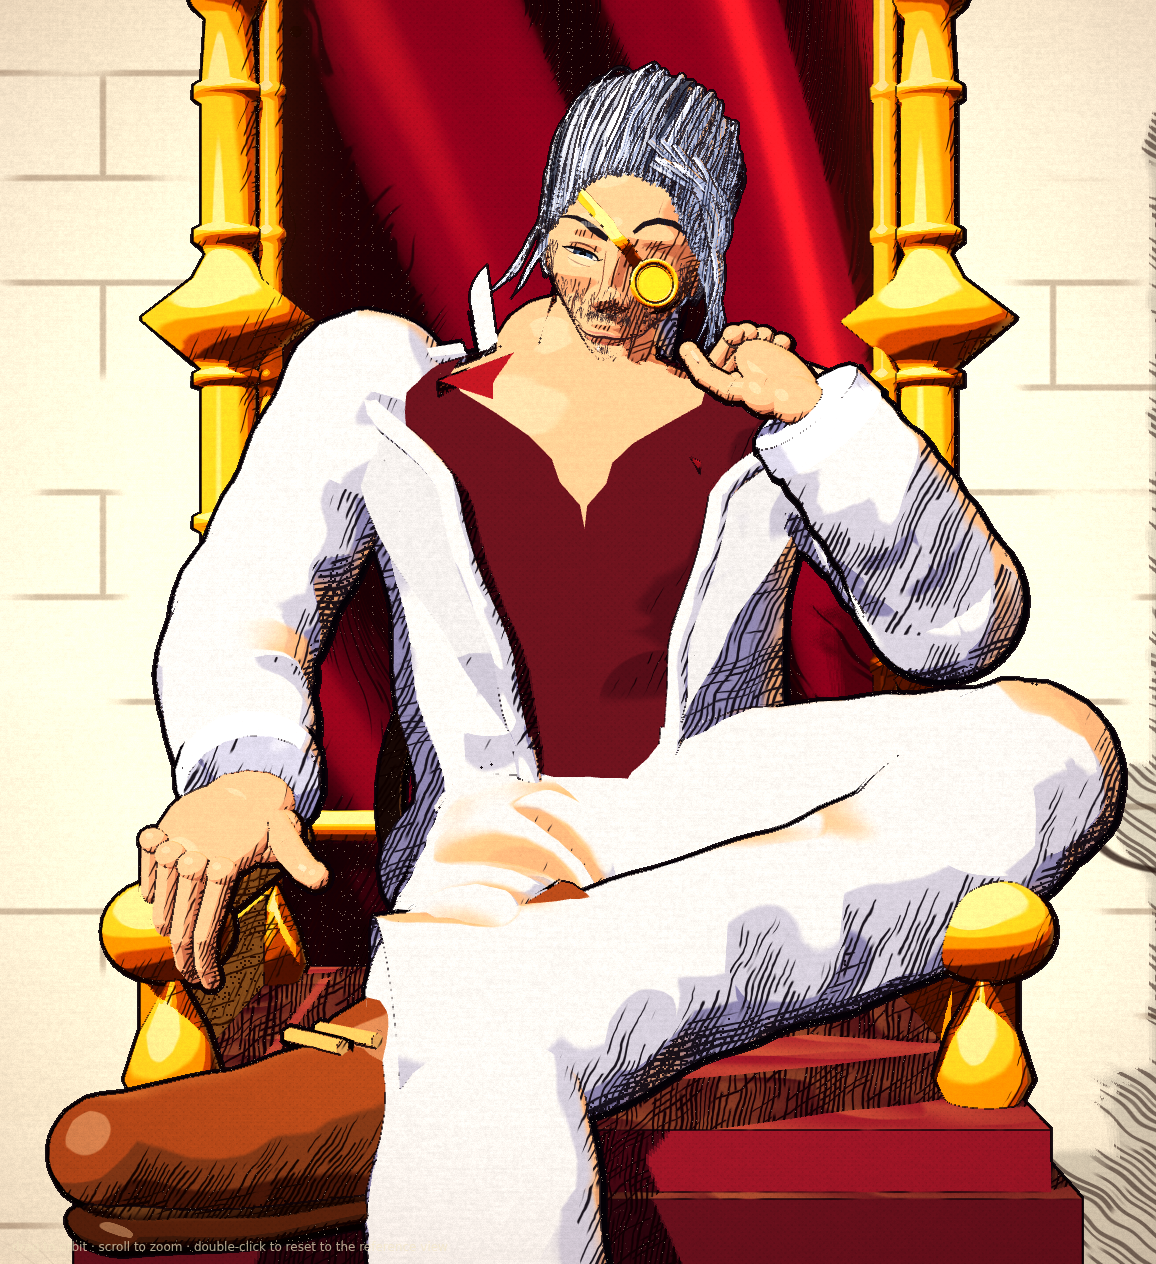
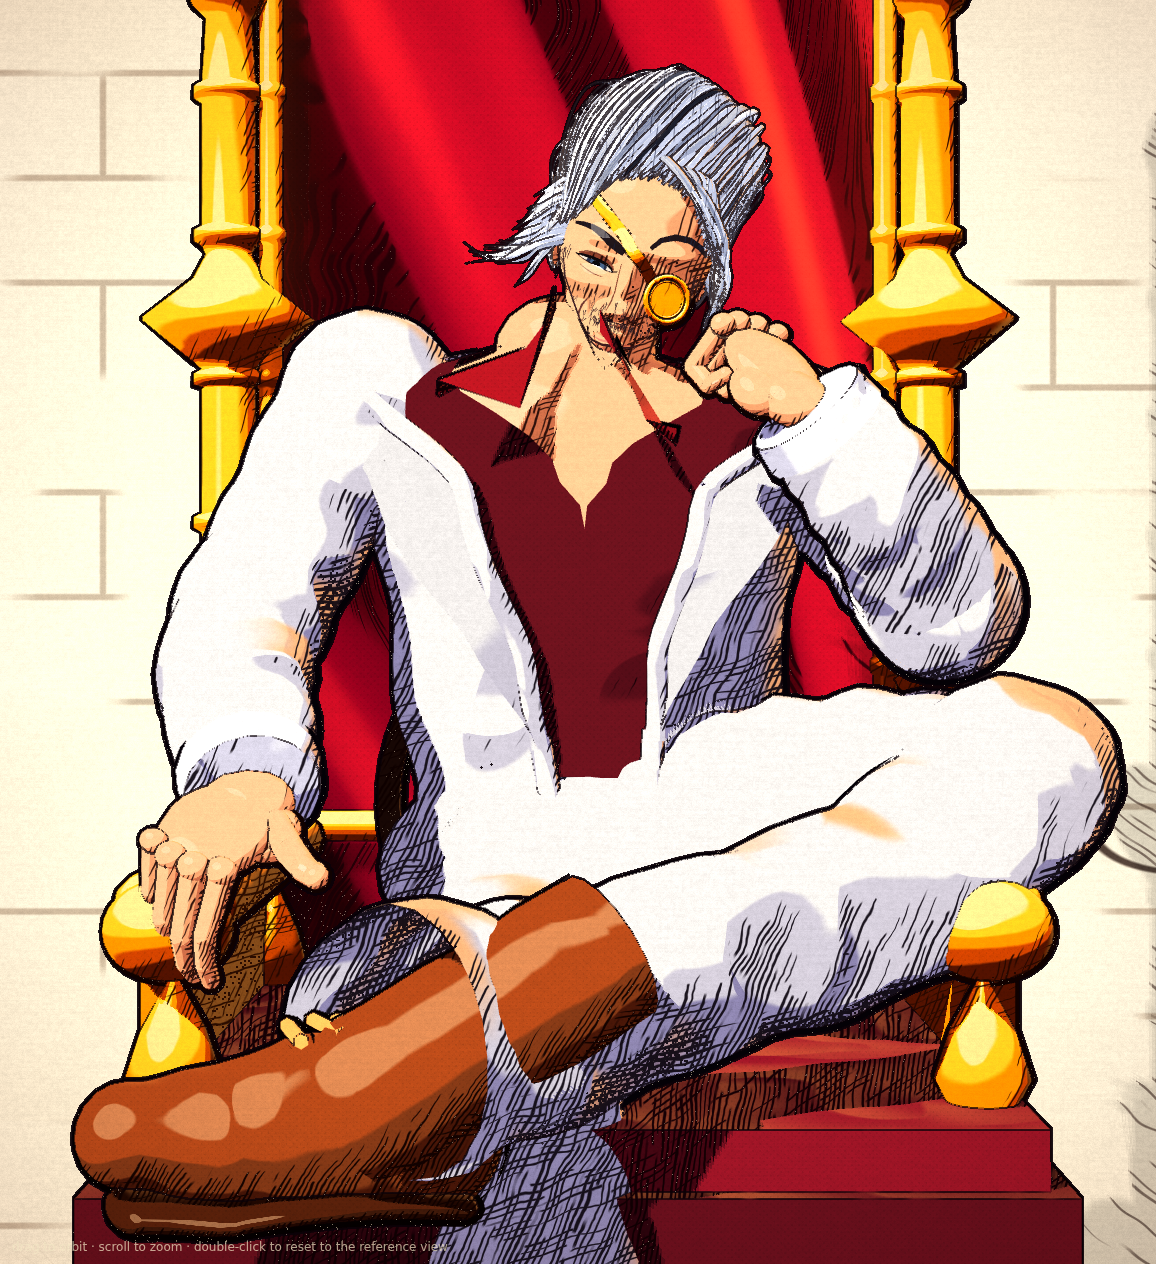
baku3d: round 1 body, throne and style render
Claude-Session: https://claude.ai/code/session_01JH6q5z1jEaKTaWuFe2UCrC

diff --git a/baku3d/src/body.js b/baku3d/src/body.js
@@ -39,7 +39,7 @@ export function buildBody(THREE, style) {
   const tilt = (t) => -0.12 * sm(Math.min(1, Math.max(0, (t - 0.45) / 0.5)));
   const jrx = prof([[0, 0.205], [0.2, 0.19], [0.5, 0.2], [0.78, 0.222], [0.9, 0.238], [0.96, 0.17], [1, 0.1]]);
   const jry = prof([[0, 0.15], [0.3, 0.135], [0.6, 0.14], [0.85, 0.115], [1, 0.08]]);
-  const gap = prof([[0, 0.3], [0.45, 0.4], [0.72, 0.58], [0.9, 1.05], [1, 1.3]]);
+  const gap = prof([[0, 0.22], [0.45, 0.3], [0.72, 0.5], [0.9, 1.0], [1, 1.3]]);
   const cloth = (amp, sx, sy, sz, seed = 0) => (t, phi, p) => {
     const n = fbm(p.x * sx + seed, p.y * sy, p.z * sz + seed * 0.7) - 0.5;
     const crease = Math.sin(p.y * 38 + p.x * 17 + seed) * 0.35 + Math.sin(p.y * 21 - p.x * 25 + seed * 2) * 0.3;
@@ -68,7 +68,7 @@ export function buildBody(THREE, style) {
     pts: spine, rings: 40, sides: 40, ref: V3(0, 0, 1), tilt,
     rx: jrx, ry: jry,
     phi0: (t) => Math.PI / 2 + gap(t), phi1: (t) => Math.PI * 2.5 - gap(t),
-    noise: cloth(0.05, 7, 5, 7, 0),
+    noise: cloth(0.07, 7, 5, 7, 0),
   };
   const jacketGeo = loft(jacketSpec);
   add(jacketGeo, suitM());
@@ -81,7 +81,7 @@ export function buildBody(THREE, style) {
     const A = [], B = [];
     const n = 22;
     for (let i = 0; i <= n; i++) {
-      const t = 0.28 + (0.995 - 0.28) * (i / n);
+      const t = 0.28 + (0.965 - 0.28) * (i / n);
       const edge = s < 0 ? Math.PI / 2 + gap(t) : Math.PI / 2 - gap(t);
       const dphi = lapelW(t) * (s < 0 ? 1 : -1);
       // pointed notch: cut the lapel in near the top
@@ -114,14 +114,7 @@ export function buildBody(THREE, style) {
       add(geoF, redM);
     };
     flap(-1, [438, 398], [556, 308], [520, 408]);
-    flap(1, [700, 478], [598, 330], [655, 440]);
-    // standing back/side collar band of the jacket
-    const bandSpec = {
-      pts: [P(576, 368, -0.03), P(576, 352, -0.05), P(576, 340, -0.06)], rings: 4, sides: 28, ref: V3(0, 0, 1),
-      rx: (t) => 0.095 + 0.015 * t, ry: (t) => 0.085 + 0.012 * t,
-      phi0: () => Math.PI / 2 + 0.95, phi1: () => Math.PI * 2.5 - 0.95,
-    };
-    add(loft(bandSpec), suitM());
+    flap(1, [676, 446], [600, 332], [646, 420]);
   }
 
   // pelvis / lap filler under the jacket hem
@@ -141,14 +134,14 @@ export function buildBody(THREE, style) {
     const up = {
       pts: [shoulderR, P(865, 505, 0.03), elbowR], rings: 18, sides: 20, ref: V3(0, 0, 1),
       rx: prof([[0, 0.085], [0.5, 0.072], [1, 0.07]]), ry: prof([[0, 0.085], [0.5, 0.072], [1, 0.07]]),
-      capStart: 4, capEnd: 4, noise: sleeveNoise(0.05, 9, 1),
+      capStart: 4, capEnd: 4, noise: sleeveNoise(0.075, 9, 1),
     };
     add(loft(up), suitM());
     ell(0.074, elbowR, [1, 1, 1], suitM());
     const fore = {
       pts: [elbowR, P(880, 500, 0.23), wristR], rings: 20, sides: 20, ref: V3(0.3, 0, 1),
       rx: prof([[0, 0.07], [0.5, 0.064], [1, 0.054]]), ry: prof([[0, 0.07], [0.5, 0.064], [1, 0.054]]),
-      capStart: 2, noise: sleeveNoise(0.05, 11, 4),
+      capStart: 2, noise: sleeveNoise(0.07, 11, 4),
     };
     add(loft(fore), suitM());
     // cuff
@@ -164,7 +157,8 @@ export function buildBody(THREE, style) {
       side: -1, // thumb on viewer's-left side of the hand (toward the face)
       curl: [[1.4, 1.75, 1.05], [1.5, 1.8, 1.05], [1.5, 1.8, 1.0], [1.45, 1.7, 0.95]],
       spread: 0,
-      thumb: { dir: V3(0.5, 0.75, -0.55), bend: [0.5, 0.5], len: [0.034, 0.028, 0.024] },
+      thumb: { dir: V3(-0.6, 0.45, -0.7), bend: [0.5, 0.6], len: [0.034, 0.028, 0.024] },
+      scale: 1.15,
     });
     hand.position.copy(wristR);
     const kn = P(745, 338, 0.2);
@@ -180,7 +174,7 @@ export function buildBody(THREE, style) {
       pts: [shoulderL, P(300, 520, 0.02), P(240, 650, 0.14), P(243, 735, 0.25), wristL],
       rings: 28, sides: 22, ref: V3(0, 0, 1),
       rx: prof([[0, 0.088], [0.4, 0.074], [0.7, 0.07], [1, 0.056]]), ry: prof([[0, 0.088], [0.4, 0.076], [0.7, 0.072], [1, 0.056]]),
-      capStart: 4, noise: sleeveNoise(0.055, 12, 7),
+      capStart: 4, noise: sleeveNoise(0.07, 12, 7),
     };
     add(loft(spec), suitM());
     const dir = wristL.clone().sub(P(243, 735, 0.25)).normalize();
@@ -202,36 +196,36 @@ export function buildBody(THREE, style) {
 
   // ================= LEGS =================
   const legNoise = (amp, seed) => (t, phi, p) => {
-    const n = fbm(p.x * 9 + seed, p.y * 9, p.z * 9 + seed) - 0.5;
-    const crease = Math.sin(t * 38 + phi * 3 + seed) * 0.5;
-    return 1 + amp * (n * 2 + crease * 0.5);
+    const n = (fbm(p.x * 9 + seed, p.y * 9, p.z * 9 + seed) - 0.5) + (fbm(p.x * 4 + seed, p.y * 4, p.z * 4) - 0.5) * 1.2;
+    const crease = Math.sin(t * 34 + phi * 2 + seed) * 0.5 + Math.sin(phi * 3 - t * 9 + seed) * 0.5;
+    return 1 + amp * (n * 2 + crease * 0.9);
   };
   // leg A: thigh out to viewer's right (knee up on the armrest), shin back across the lap, boot at left
-  const hipA = P(640, 835, -0.04), kneeA = P(1020, 778, 0.24), ankleA = P(385, 1035, 0.45);
+  const hipA = P(640, 835, -0.04), kneeA = P(1020, 778, 0.24), ankleA = P(385, 1040, 0.55);
   {
     const thigh = {
       pts: [hipA, P(830, 805, 0.1), kneeA], rings: 18, sides: 22, ref: V3(0, 1, 0),
-      rx: prof([[0, 0.115], [1, 0.088]]), ry: prof([[0, 0.11], [1, 0.088]]), capStart: 3, capEnd: 4, noise: legNoise(0.06, 2),
+      rx: prof([[0, 0.115], [1, 0.088]]), ry: prof([[0, 0.11], [1, 0.088]]), capStart: 3, capEnd: 4, noise: legNoise(0.1, 2),
     };
     add(loft(thigh), trouserM());
     const shin = {
       pts: [kneeA, P(900, 880, 0.3), P(700, 955, 0.38), P(520, 1020, 0.43), ankleA], rings: 34, sides: 24, ref: V3(0, 1, 0),
       rx: prof([[0, 0.088], [0.5, 0.082], [1, 0.1]]), ry: prof([[0, 0.088], [0.5, 0.078], [1, 0.095]]),
-      capStart: 3, noise: legNoise(0.07, 5),
+      capStart: 3, noise: legNoise(0.11, 5),
     };
     add(loft(shin), trouserM());
   }
   // leg B: thigh toward camera, shin straight down to the floor
   {
-    const hipB = P(540, 850, -0.04), kneeB = P(485, 1090, 0.3), ankleB = P(520, 1700, 0.5);
+    const hipB = P(540, 850, -0.04), kneeB = P(520, 1070, 0.33), ankleB = P(545, 1700, 0.5);
     const thigh = {
       pts: [hipB, P(510, 960, 0.12), kneeB], rings: 14, sides: 22, ref: V3(1, 0, 0),
-      rx: prof([[0, 0.11], [1, 0.088]]), ry: prof([[0, 0.11], [1, 0.088]]), capStart: 3, capEnd: 4, noise: legNoise(0.06, 9),
+      rx: prof([[0, 0.11], [1, 0.088]]), ry: prof([[0, 0.11], [1, 0.088]]), capStart: 3, capEnd: 4, noise: legNoise(0.09, 9),
     };
     add(loft(thigh), trouserM());
     const shin = {
-      pts: [kneeB, P(500, 1260, 0.4), ankleB], rings: 22, sides: 22, ref: V3(1, 0, 0),
-      rx: prof([[0, 0.085], [1, 0.095]]), ry: prof([[0, 0.085], [1, 0.095]]), capStart: 3, noise: legNoise(0.06, 11),
+      pts: [kneeB, P(535, 1260, 0.42), ankleB], rings: 22, sides: 22, ref: V3(1, 0, 0),
+      rx: prof([[0, 0.085], [1, 0.095]]), ry: prof([[0, 0.085], [1, 0.095]]), capStart: 3, noise: legNoise(0.09, 11),
     };
     add(loft(shin), trouserM());
     ell(0.07, P(500, 1650, 0.7), [1, 0.6, 1.8], mat(0x1a1210, 'leather'));
@@ -241,8 +235,8 @@ export function buildBody(THREE, style) {
   {
     const leather = mat(0x7d4220, 'leather');
     const leatherD = mat(0x3c1c0c, 'leather');
-    const toe = P(105, 1150, 0.64);
-    const heel = ankleA.clone().add(V3(0.07, -0.085, -0.06));
+    const toe = P(128, 1135, 0.6);
+    const heel = ankleA.clone().add(V3(0.04, -0.075, -0.05));
     const shaftTop = ankleA.clone().add(V3(0.17, 0.06, -0.07));
     add(loft({
       pts: [ankleA.clone().add(V3(-0.01, -0.04, 0.01)), shaftTop], rings: 8, sides: 18, ref: V3(0, 1, 0),

diff --git a/baku3d/src/head.js b/baku3d/src/head.js
@@ -80,12 +80,13 @@ export function buildHead(THREE, style) {
     line([[0.012, 0.005, 0.040], [0.030, 0.0, 0.032], [0.052, 0.0045, 0.018]], 0.0016);
   }
   neckGroup.rotation.set(0.12, 0, -0.05);
+  const HS = 1.08; neckGroup.scale.setScalar(HS);
 
   // ======================= HEAD (tilt group) =======================
   const tilt = new THREE.Group(); tilt.name = 'headTilt';
-  tilt.position.set(0, PIVOT_Y, 0);
+  tilt.position.set(0, PIVOT_Y * HS, 0); tilt.scale.setScalar(HS);
   tilt.rotation.order = 'YXZ';
-  tilt.rotation.set(0.22, -0.03, -0.28);
+  tilt.rotation.set(0.28, -0.03, -0.27);
   root.add(tilt);
   const face = new THREE.Group(); face.name = 'face';
   face.position.set(0, FACE_Y - PIVOT_Y, 0.004);
@@ -131,8 +132,8 @@ export function buildHead(THREE, style) {
     const irisP = clipPoly(circle(ic[0], ic[1], 0.0104), almond);
     const lightP = clipPoly(circle(ic[0] + 0.0008, ic[1] - 0.0005, 0.0075), almond);
     const pupP = clipPoly(circle(ic[0], ic[1], 0.0040), almond);
-    if (irisP.length > 2) add(fill(THREE, field, toFace(irisP), 0.0010, 3), 0x27324a, 'eye', 'iris', 2);
-    if (lightP.length > 2) add(fill(THREE, field, toFace(lightP), 0.0013, 3), 0x4a6384, 'eye', 'irisLight', 3);
+    if (irisP.length > 2) add(fill(THREE, field, toFace(irisP), 0.0010, 3), 0x1a2234, 'eye', 'iris', 2);
+    if (lightP.length > 2) add(fill(THREE, field, toFace(lightP), 0.0013, 3), 0x3d5576, 'eye', 'irisLight', 3);
     if (pupP.length > 2) add(fill(THREE, field, toFace(pupP), 0.0016, 2), 0x07070b, 'eye', 'pupil', 4);
     add(fill(THREE, field, toFace(circle(ic[0] - 0.0020, ic[1] + 0.0016, 0.0011, 10)), 0xffffff, 'eye', 'catchlight', 5), 0xffffff, 'eye', 'catch', 5);
     // lid lines
@@ -142,6 +143,8 @@ export function buildHead(THREE, style) {
     for (let i = 1; i < n; i++) { const u = -hw * 0.95 + 1.9 * hw * i / n; crease.push(T(u, up(u) + 0.0042 + 0.0010 * Math.sin((u / hw + 1) * Math.PI / 2))); }
     for (let i = 2; i < n - 1; i++) { const u = -hw * 0.9 + 1.8 * hw * i / n; bag.push(T(u, lo(u) - 0.0060 - 0.0012 * Math.sin((u / hw + 1) * Math.PI / 2))); }
     add(ribbon(THREE, field, upper, t => 0.0009 + 0.0030 * Math.sin(Math.PI * Math.min(1, t * 1.05)) ** 0.8, 0.0020), 0x0c0709, 'eye', 'upperLid', 6);
+    const shade = []; for (let i = 0; i <= n; i++) { const u = -hw + 2 * hw * i / n; shade.push(T(u, up(u) + 0.0022)); }
+    add(ribbon(THREE, field, shade, t => 0.0050 * Math.sin(Math.PI * Math.min(1, 0.05 + 0.9 * t)) ** 0.8 + 0.0004, 0.0014), 0x8a5040, 'skin', 'lidShade', 2);
     add(ribbon(THREE, field, lower, t => 0.0004 + 0.0009 * Math.sin(Math.PI * t), 0.0020), 0x2a1a1c, 'eye', 'lowerLid', 6);
     add(ribbon(THREE, field, crease, t => 0.0004 + 0.0011 * Math.sin(Math.PI * t), 0.0012), 0x6a4034, 'skin', 'crease', 2);
     add(ribbon(THREE, field, bag, t => 0.0003 + 0.0008 * Math.sin(Math.PI * t), 0.0012), 0x8a5a48, 'skin', 'bag', 2);
@@ -165,7 +168,7 @@ export function buildHead(THREE, style) {
 
   // ---- MOUTH: closed lopsided smirk
   const mouth = [[-0.0275, -0.0675], [-0.0230, -0.0715], [-0.0160, -0.0745], [-0.0075, -0.0752], [0.0010, -0.0742], [0.0095, -0.0742], [0.0180, -0.0725], [0.0265, -0.0690], [0.0345, -0.0640], [0.0395, -0.0585]];
-  add(ribbon(THREE, field, mouth, t => 0.0007 + 0.0012 * Math.sin(Math.PI * Math.min(1, t * 1.1 + 0.02)) ** 0.7, 0.0016), 0x3b1c1e, 'eye', 'mouthLine', 5);
+  add(ribbon(THREE, field, mouth, t => 0.0010 + 0.0016 * Math.sin(Math.PI * Math.min(1, t * 1.1 + 0.02)) ** 0.7, 0.0016), 0x2e1416, 'eye', 'mouthLine', 5);
   // lower lip + upper lip tint
   const lowerLip = [[-0.020, -0.0768], [-0.010, -0.0795], [0.002, -0.0802], [0.014, -0.0790], [0.024, -0.0745]];
   add(ribbon(THREE, field, lowerLip, t => 0.0030 * Math.sin(Math.PI * (0.05 + 0.9 * t)) ** 0.8, 0.0010), 0xe3a08f, 'skin', 'lowerLip', 2);
@@ -174,7 +177,7 @@ export function buildHead(THREE, style) {
   add(ribbon(THREE, field, [[-0.0305, -0.0600], [-0.0345, -0.0655], [-0.0335, -0.0715], [-0.0295, -0.0740]], t => 0.0010 * Math.sin(Math.PI * t) + 0.0003, 0.0012), 0x6a3e34, 'skin', 'dimpleL', 3);
   add(ribbon(THREE, field, [[0.0425, -0.0545], [0.0465, -0.0600], [0.0450, -0.0670], [0.0405, -0.0705]], t => 0.0012 * Math.sin(Math.PI * t) + 0.0003, 0.0012), 0x6a3e34, 'skin', 'dimpleR', 3);
   add(ribbon(THREE, field, [[-0.0090, -0.0560], [-0.0020, -0.0548], [0.0080, -0.0560]], t => 0.0007 * Math.sin(Math.PI * t) + 0.0002, 0.0010), 0x8a5a48, 'skin', 'philtrum', 2);
-  add(ribbon(THREE, field, [[-0.012, -0.0860], [-0.004, -0.0885], [0.008, -0.0875], [0.014, -0.0850]], t => 0.0010 * Math.sin(Math.PI * t) + 0.0002, 0.0010), 0x8a5a48, 'skin', 'chinCrease', 2);
+  add(ribbon(THREE, field, [[-0.012, -0.0900], [-0.004, -0.0925], [0.008, -0.0915], [0.014, -0.0890]], t => 0.0010 * Math.sin(Math.PI * t) + 0.0002, 0.0010), 0x8a5a48, 'skin', 'chinCrease', 2);
 
   // ---- FACE SHADING STROKES (ink hatching): nasolabial, cheek hollows, jaw contour, temple
   const stroke = (pts, w, hex = 0x4a2e2c, name = 'hatch') => add(ribbon(THREE, field, pts, t => w * Math.sin(Math.PI * (0.06 + 0.88 * t)) ** 0.7 + 0.0002, 0.0012), hex, 'eye', name, 2);
@@ -190,12 +193,12 @@ export function buildHead(THREE, style) {
     const R = rng(42), geos = [];
     const place = (x, y, len, ang) => {
       const dx = Math.sin(ang) * len, dy = -Math.cos(ang) * len;
-      geos.push(ribbon(THREE, field, [[x, y], [x + dx * 0.5, y + dy * 0.5], [x + dx, y + dy]], t => 0.00085 * (1 - 0.7 * t), 0.0010));
+      geos.push(ribbon(THREE, field, [[x, y], [x + dx * 0.5, y + dy * 0.5], [x + dx, y + dy]], t => 0.00070 * (1 - 0.7 * t), 0.0010));
     };
-    for (let k = 0; k < 1000; k++) {
-      const y = -0.098 + R() * 0.075, x = (R() * 2 - 1) * field.Wf(y) * 0.92;
+    for (let k = 0; k < 600; k++) {
+      const y = -0.106 + R() * 0.083, x = (R() * 2 - 1) * field.Wf(y) * 0.92;
       const ax = Math.abs(x);
-      if (ax < 0.034 && y > -0.0775 && y < -0.0585) continue;          // mouth
+      if (ax < 0.040 && y > -0.0815 && y < -0.0575) continue;          // mouth
       if (ax < 0.014 && y > -0.058 && y < -0.047) continue;            // nostril zone
       const edge = ax / field.Wf(y);
       const keep = (0.35 + 0.65 * Math.min(1, (-0.02 - y) / 0.05)) * (0.45 + 0.55 * edge) * (x < 0 ? 1.0 : 0.9);

diff --git a/baku3d/src/headB_hair.js b/baku3d/src/headB_hair.js
@@ -23,7 +23,7 @@ function outline(x0, phi) {
 
 export const hairline = (x, z) => {
   const ax = Math.abs(x);
-  const front = 0.076 - 0.058 * sm(0.025, 0.076, ax) + 0.006 * (1 - Math.min(1, ax / 0.022));
+  const front = 0.088 - 0.058 * sm(0.025, 0.076, ax) + 0.006 * (1 - Math.min(1, ax / 0.022));
   const t = sm(0.015, -0.040, z);
   return front * (1 - t) + (-0.038) * t;
 };
@@ -109,14 +109,14 @@ export function buildHair(THREE, style, field, skullGeo) {
       let el = -50 * d2r, root = null;
       for (; el < 80 * d2r; el += 2 * d2r) {
         const q = surf(sn * Math.cos(el), Math.sin(el), cs * Math.cos(el));
-        if (q[1] >= hairline(q[0], q[2]) - R(0, 0.003)) { root = q; break; }
+        if (q[1] >= hairline(q[0], q[2]) - R(-0.002, 0.007) * (l === 0 ? 0.3 : 1)) { root = q; break; }
       }
       if (!root) continue;
       const d0 = V(root[3], root[4], root[5]);
       const xn = sn;
-      const viaTop = V(0.30 * xn + 0.18, 1.0, -0.10), viaSide = V(sgn * 0.85, 0.55, -0.55);
+      const viaTop = V(0.30 * xn + 0.50, 1.0, -0.05), viaSide = V(sgn * 0.85, 0.55, -0.55);
       const via = viaTop.clone().multiplyScalar(1 - side).add(viaSide.clone().multiplyScalar(side)).normalize();
-      const d1 = V(xn * 0.35 + 0.10 + R(-0.04, 0.04), R(-0.30, -0.12) + 0.2 * side, -0.95).normalize();
+      const d1 = V(xn * 0.35 + 0.30 + R(-0.05, 0.05), R(-0.30, -0.12) + 0.2 * side, -0.95).normalize();
       const kk = 1.55 + R(-0.15, 0.15);
       const K = 32, pts = [];
       const eps = 0.0018 + l * 0.0024 + R(0, 0.0014);
@@ -150,11 +150,11 @@ export function buildHair(THREE, style, field, skullGeo) {
   }
   // right (viewer's) long bangs: a thick wavy sweep falling from the parting over the temple, hanging beside the cheek
   const lockCen = V(0, 0.04, -0.01);
-  for (let i = 0; i < 22; i++) {
-    const u = i / 21, jit = () => R(-0.0025, 0.0025);
+  for (let i = 0; i < 30; i++) {
+    const u = i / 29, jit = () => R(-0.0065, 0.0065);
     const x0 = 0.000 + 0.05 * u;
-    const wave = R(0.003, 0.006), sgn = rnd() < 0.5 ? 1 : -1;
-    const len = 0.75 + 0.35 * R(0, 1);
+    const wave = R(0.002, 0.008), sgn = rnd() < 0.5 ? 1 : -1;
+    const len = 0.55 + 0.6 * R(0, 1);
     const ctrl = [
       [x0 - 0.02, 0.118 - 0.01 * u, 0.050],
       [x0 + 0.004 + jit(), 0.112 - 0.01 * u, 0.074 + jit()],
@@ -164,7 +164,7 @@ export function buildHair(THREE, style, field, skullGeo) {
       [0.088 + 0.006 * u + wave * sgn, -0.006 - 0.040 * len, 0.058 - 0.012 * u],
       [0.084 + 0.012 * u - wave * sgn * 0.5 + 0.008 * u, -0.030 - 0.045 * len, 0.045 - 0.018 * u],
     ];
-    lock(pick(), ctrl, R(0.0080, 0.0135), 0.0020, 30, lockCen);
+    lock(rnd() < 0.18 ? buckets[2] : pick(), ctrl, R(0.0050, 0.0105), 0.0020, 30, lockCen);
   }
   // left (viewer's) temple tufts: swept back & flicking outward in ragged points at ear level
   for (let i = 0; i < 18; i++) {
@@ -178,6 +178,18 @@ export function buildHair(THREE, style, field, skullGeo) {
       [-0.118 - 0.046 * u + jit(), -0.006 - 0.032 * u * R(0.5, 1.3), 0.0 - 0.016 * u],
     ];
     lock(pick(), ctrl, R(0.0050, 0.0095), 0.0017, 24, lockCen);
+  }
+  // ragged short tufts bulging out on the viewer's left temple / ear
+  for (let i = 0; i < 20; i++) {
+    const u = i / 19, jit = () => R(-0.004, 0.004), L = R(0.7, 1.3);
+    const y0 = 0.075 - 0.075 * u;
+    const ctrl = [
+      [-0.058 - 0.010 * u, y0 + 0.01, 0.040],
+      [-0.078 - 0.012 * u + jit(), y0 - 0.004, 0.030],
+      [-0.094 - 0.016 * u * L + jit(), y0 - 0.014 - 0.008 * L, 0.018],
+      [-0.108 - 0.026 * u * L + jit(), y0 - 0.030 * L - 0.01, 0.008 - 0.006 * u],
+    ];
+    lock(pick(), ctrl, R(0.0055, 0.0105), 0.0018, 16, lockCen);
   }
   // sideburn flicks above both ears
   for (const sg of [-1, 1]) for (let i = 0; i < 8; i++) {
@@ -208,7 +220,7 @@ export function buildHair(THREE, style, field, skullGeo) {
     geo.setAttribute('position', new THREE.Float32BufferAttribute(b.pos, 3));
     geo.setIndex(b.idx);
     geo.computeVertexNormals();
-    const m = new THREE.Mesh(geo, style.toon(b.hex, { role: 'hair', side: THREE.DoubleSide, hatch: 0.25, outline: 0.45 }));
+    const m = new THREE.Mesh(geo, style.toon(b.hex, { role: 'hair', side: THREE.DoubleSide, hatch: 0.0, outline: 0.35 }));
     m.name = name; group.add(m);
   };
   buckets.forEach((b, i) => mk(b, 'hair' + i)); mk(ink, 'hairInk'); mk(inkDeep, 'hairInkDeep');

diff --git a/baku3d/src/headB_geo.js b/baku3d/src/headB_geo.js
@@ -15,8 +15,8 @@ export function curve(ks, vs) {
   };
 }
 
-const YK = [-0.100, -0.092, -0.080, -0.062, -0.040, -0.015, 0.012, 0.045, 0.078, 0.106, 0.128, 0.143, 0.152, 0.156];
-export const Wf = (() => { const f = curve(YK, [0, 0.010, 0.021, 0.037, 0.054, 0.069, 0.077, 0.075, 0.073, 0.067, 0.054, 0.036, 0.016, 0]); return y => Math.max(0, f(y)); })();
+const YK = [-0.109, -0.101, -0.088, -0.064, -0.040, -0.015, 0.012, 0.045, 0.078, 0.106, 0.128, 0.143, 0.152, 0.156];
+export const Wf = (() => { const f = curve(YK, [0, 0.009, 0.019, 0.034, 0.051, 0.068, 0.077, 0.075, 0.073, 0.067, 0.054, 0.036, 0.016, 0]); return y => Math.max(0, f(y)); })();
 export const ZF = curve(YK, [0.040, 0.047, 0.053, 0.059, 0.067, 0.078, 0.083, 0.082, 0.076, 0.064, 0.047, 0.028, 0.012, -0.006]);
 export const ZB = curve(YK, [0.034, 0.008, -0.026, -0.056, -0.078, -0.090, -0.097, -0.099, -0.096, -0.085, -0.066, -0.040, -0.016, -0.006]);
 export const YLO = YK[0], YHI = YK[YK.length - 1];
@@ -47,8 +47,8 @@ function disp(x, y) {
   // lips / chin
   d += g(x, y, 0, -0.0625, 0.019, 0.0050, 0.0040);
   d += g(x, y, 0, -0.0745, 0.016, 0.0042, 0.0042);
-  d += g(x, y, 0, -0.0835, 0.016, 0.0040, -0.0040);
-  d += g(x, y, 0, -0.0925, 0.013, 0.0090, 0.0070);
+  d += g(x, y, 0, -0.0860, 0.016, 0.0040, -0.0040);
+  d += g(x, y, 0, -0.0990, 0.013, 0.0095, 0.0075);
   d += g(ax, y, 0.030, -0.067, 0.010, 0.009, -0.0020);
   // cheek hollows & nasolabial
   d += g(ax, y, 0.050, -0.050, 0.016, 0.020, -0.0085);

diff --git a/baku3d/src/bodyA_throne.js b/baku3d/src/bodyA_throne.js
@@ -81,7 +81,7 @@ export function buildThrone(THREE, style, util) {
     // top rail (flattened capsule along z)
     const rail = M(new THREE.CapsuleGeometry(0.036, 0.62, 8, 16), gold(), x, 0.615, 0.0);
     rail.rotation.x = Math.PI / 2;
-    rail.scale.set(1.15, 1, 0.8);
+    rail.scale.set(1.5, 1, 1.0);
     // front scroll: big round pommel + ring
     M(new THREE.SphereGeometry(0.048, 20, 14), gold(), x, 0.6, 0.345).scale.set(1.15, 0.9, 1);
     
